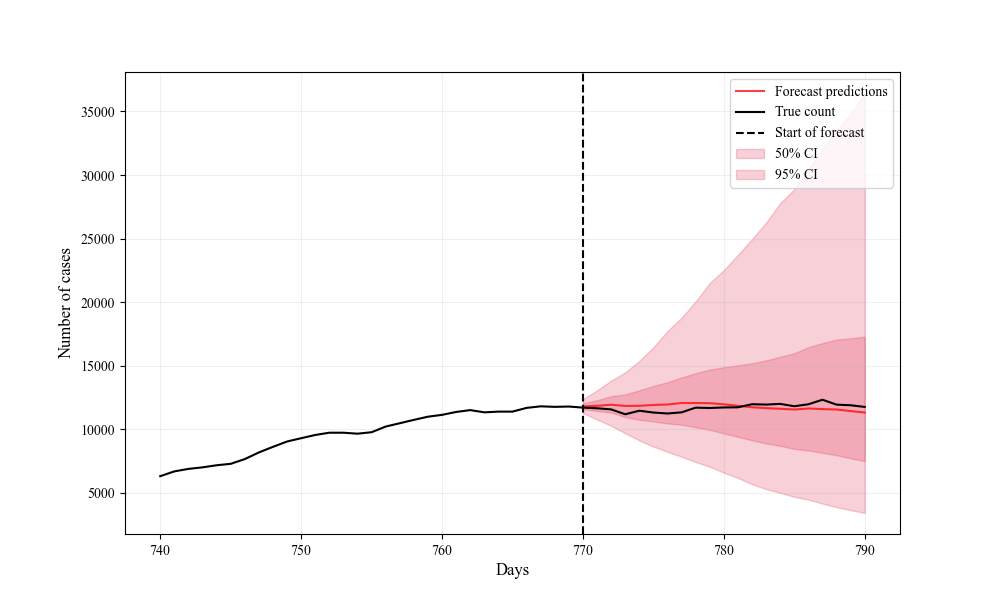
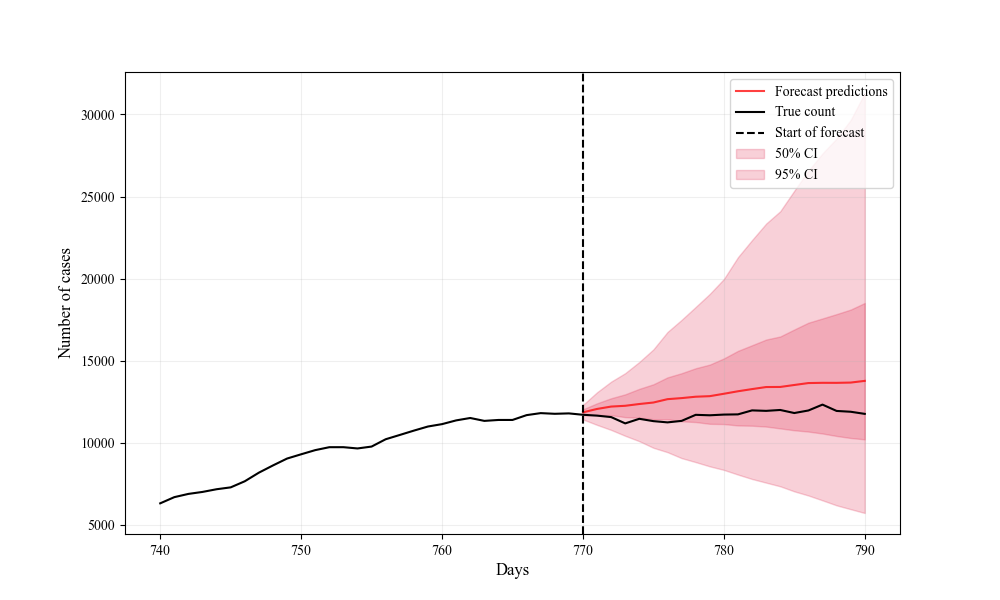
Stacked convolutional architecture

diff --git a/src/forecastpnn/models/forecastpnn.py b/src/forecastpnn/models/forecastpnn.py
@@ -169,35 +169,51 @@ class TCNInception(nn.Module):
         dist = Normal(loc, scale)
         return torch.distributions.Independent(dist, reinterpreted_batch_ndims=1)
 
-
+import numpy as np
 class TCNForecaster(nn.Module):
-    def __init__(self, past_units=42, channels = 3):
+    def __init__(self, past_units=42, channels = 1, kernel_size = [7, 3, 3], att_internal_dim = 10):
         super().__init__()
         # Could do kdim 10, vdim 1 to have same output format but higher internal dim
-        self.att1 = nn.MultiheadAttention(embed_dim=1, num_heads=1, batch_first=True)
+        #self.att1 = nn.MultiheadAttention(embed_dim=1, num_heads=1, batch_first=True, kdim=10, vdim=10)
+        self.query = nn.Linear(1, att_internal_dim)
+        self.key = nn.Linear(1, att_internal_dim)
+        self.value = nn.Linear(1, 1)
         self.fc_att = nn.Linear(past_units, past_units)
-        self.branch7 = nn.Conv1d(1, channels, kernel_size=7, padding='same')
-        self.fc_concat = nn.Linear(channels * past_units, 24)
-        self.fc2 = nn.Linear(24, 12)
-        self.fc_final = nn.Linear(12, 2)
-        self.bnorm1 = nn.BatchNorm1d(num_features=channels*past_units)
-        self.bnorm2 = nn.BatchNorm1d(num_features=24)
-        self.bnorm3 = nn.BatchNorm1d(num_features=12)
+        self.conv1 = nn.Conv1d(1, channels, kernel_size=kernel_size[0])#, padding='same')
+        self.conv2 = nn.Conv1d(channels, channels, kernel_size=kernel_size[1])
+        self.conv3 = nn.Conv1d(channels, 1, kernel_size=kernel_size[2])
+        self.fc_concat = nn.Linear(1 * (past_units - (np.sum(kernel_size) - len(kernel_size))), 16)
+        self.fc1 = nn.Linear(past_units, 2*past_units)
+        self.fc2 = nn.Linear(16, 8)
+        self.fc_final = nn.Linear(8, 2)
+        self.lnorm1 = nn.LayerNorm([1])
+        self.lnorm2 = nn.LayerNorm([1])
+        self.bnorm1 = nn.BatchNorm1d(num_features=1 * (past_units - (np.sum(kernel_size) - len(kernel_size))))
+        self.bnorm2 = nn.BatchNorm1d(num_features=16)
+        self.bnorm3 = nn.BatchNorm1d(num_features=8)
         self.drop1 = nn.Dropout(0.1)
         self.drop2 = nn.Dropout(0.1)
         self.softplus = nn.Softplus()
-        self.const = 50
+        self.softmax = nn.Softmax(dim=-1)
+        self.const = 10
         self.act = nn.SiLU()
+        self.att_internal_dim = att_internal_dim
 
     def forward(self, x):
         # Add self-attention layer
-        x_add = self.att1(x, x, x, need_weights=False)[0]
-        x_add = self.act(self.fc_att(torch.squeeze(x_add)))
-        x = x + x_add.unsqueeze(-1)
+        # x_add = self.att1(x, x, x, need_weights=False)[0]
+        """ x_add = self.softmax(self.query(x) @ self.key(x).transpose(1, 2)/self.att_internal_dim) @ self.value(x)
+        x_add = self.lnorm1(x_add + x)
+        x = self.act(self.fc_att(torch.squeeze(x_add)))
+        x = self.lnorm2(x.unsqueeze(-1) + x_add)  """
         x = x.transpose(1, 2)  # ensure shape [batch_size, 1, length]
-        x_add = self.branch7(x)
-        x = x + x_add
+        x = self.act(self.conv1(x))
+        x = self.act(self.conv2(x))
+        x = self.act(self.conv3(x))
+        #print(x.shape)
+        #x = x + x_add
         x = self.act(self.fc_concat(self.bnorm1(x.view(x.size(0), -1))))
+        #x = self.act(self.fc1(self.bnorm1(x.view(x.size(0), -1))))
         x = self.drop1(x)
         x = self.act(self.fc2(self.bnorm2(x)))
         x = self.drop2(x)

diff --git a/src/forecastpnn/utils/plotting.py b/src/forecastpnn/utils/plotting.py
@@ -244,20 +244,22 @@ def plot_confints_forecast_with_updated_inputs(dataset, model, n_samples=200, le
     # Model setup
     model.eval()
     model.drop1.p = 0.025
+    model.drop2.p = 0.025
     model.drop1.train()
+    model.drop2.train()
     # Initialize forecasts array
     forecasts = np.zeros((steps_ahead, n_samples))
-    initial_perc = perc_series.clone()
+    current_perc = perc_series.clone()
     # First step uses original input
-    forecasts[0, :] = np.array([model(initial_perc).sample().item() for _ in range(n_samples)])
+    forecasts[0, :] = np.array([model(current_perc).sample().item() for _ in range(n_samples)])
     
     # Create storage for different percentage series versions
     perc_versions = []
     
     # For remaining steps
     for step in range(1, steps_ahead):
-        prev_quantiles = np.quantile(forecasts[step-1], np.linspace(0.05, 0.95, 10))
-        
+        prev_quantiles = np.quantile(forecasts[step-1], np.linspace(0.05, 0.95, 10), axis = 0)
+        current_perc = torch.roll(current_perc, -1, dims=1)
         """ if step == 1:
             # Initialize 10 versions after first step
             for q in prev_quantiles:
@@ -282,18 +284,13 @@ def plot_confints_forecast_with_updated_inputs(dataset, model, n_samples=200, le
             forecasts[step, i*20:(i+1)*20] = new_samples """
         # For each quantile from previous step
         for i, q in enumerate(prev_quantiles):
-            # Create temporary percentage series with previous quantile
-            temp_perc = initial_perc.clone()
-            temp_perc = torch.roll(temp_perc, -1, dims=1)
-            temp_perc[0, -1] = torch.tensor(q)
+            current_perc[0, -1] = torch.tensor(q)
             
             # Generate new samples using this updated series
-            new_samples = np.array([model(temp_perc).sample().item() for _ in range(20)])
+            new_samples = np.array([model(current_perc).sample().item() for _ in range(20)])
             forecasts[step, i*20:(i+1)*20] = new_samples
             
-        # Update the initial series with median of all samples from this step
-        initial_perc = torch.roll(initial_perc, -1, dims=1)
-        initial_perc[0, -1] = torch.tensor(np.median(forecasts[step]))
+        current_perc[0, -1] = torch.tensor(np.median(forecasts[step-1]))
     
     
     # Plotting
@@ -302,9 +299,10 @@ def plot_confints_forecast_with_updated_inputs(dataset, model, n_samples=200, le
     pred_median = np.median(forecasts, axis=1)
     pred_values = np.cumprod(1+pred_median) * prev
     plt.plot(range(idx, idx+steps_ahead), pred_values, 'r-', label='Forecast predictions', alpha=0.75)
-    true_values = [(1+yv) * prev for yv in y]
+    true_values = np.cumprod(1+y) * prev
     past_values = [(1+dataset[i][1][0].item()) * dataset[i][0][1].item() for i in range(idx-steps_before, idx)]
-    plt.plot(range(idx-steps_before, idx + len(y)), past_values + true_values, 'k-', label='True count')
+    #print(past_values, true_values, type(past_values), type(true_values), len(past_values), len(true_values))
+    plt.plot(range(idx-steps_before, idx + steps_ahead), past_values + list(true_values), 'k-', label='True count')
     plt.axvline(idx, color='black', linestyle='--', label='Start of forecast')
     
     for level in levels:

diff --git a/exploration/percentage_forecaster.py b/exploration/percentage_forecaster.py
@@ -16,6 +16,7 @@ import pandas as pd
 from forecastpnn.utils.train_utils import SubsetSampler as SS
 from forecastpnn.utils.constants import RANDOM_SEED
 
+# Put some in constants file
 WEEKS = False
 PAST_UNITS = 42
 BATCH_SIZE = 64
@@ -26,8 +27,8 @@ data = pd.read_csv('../data/derived/DENGSP.csv', index_col=0)
 #weekly_df = get_dataset(data, 'DT_SIN_PRI', weeks_in=False, weeks_out=WEEKS, past_units=PAST_UNITS, return_df=True, filter_year_min=2013, filter_year_max=2020)
 dl = get_dataset_percentage_change(data, 'DT_SIN_PRI', weeks_in=False, weeks_out=WEEKS, past_units=PAST_UNITS, return_df=False, filter_year_min=2013, filter_year_max=2020, time_features=False)
 
-#n_obs_40pu = len(dataset) # 2922 total dates, -39-39 for past_units and max_delay ->2844
-## Define train and test indices
+# Put all this in either get_dataset or another function on dl to return loaders
+# Alternatively, global class with loaders and train function s.t. just train() has to be called
 if RANDOM_SPLIT:
     all_idcs = range(dl.__len__())
     train_idcs, test_idcs = TTS(all_idcs, test_size=0.25, shuffle=True, random_state=RANDOM_SEED)
@@ -90,7 +91,8 @@ set_seeds(RANDOM_SEED)
 plot_entire_confints_percentage(dl, forecaster, weeks = WEEKS, random_split = RANDOM_SPLIT, test_idcs=test_idcs, xlims=[2500, 2600])
 
 # %%
-STEPS_AHEAD = 21
+STEPS_AHEAD = 14
+PAST_UNITS = 21
 importlib.reload(forecastpnn.utils.data_functions)
 from forecastpnn.utils.data_functions import get_dataset_percentage_change
 dl = get_dataset_percentage_change(data, 'DT_SIN_PRI', weeks_in=False, weeks_out=WEEKS, past_units=PAST_UNITS, return_df=False, filter_year_min=2013, filter_year_max=2020, time_features=False, steps_ahead=STEPS_AHEAD)
@@ -140,6 +142,6 @@ forecaster.load_state_dict(torch.load(f".weights/weights-{PAST_UNITS}-{'week' if
 importlib.reload(forecastpnn.utils.plotting)
 from forecastpnn.utils.plotting import plot_confints_forecast_with_updated_inputs
 set_seeds(RANDOM_SEED)
-plot_confints_forecast_with_updated_inputs(dl, forecaster, weeks = WEEKS, idx=770, steps_ahead=STEPS_AHEAD)
+plot_confints_forecast_with_updated_inputs(dl, forecaster, weeks = WEEKS, idx=840, steps_ahead=STEPS_AHEAD)
 
 # %%
